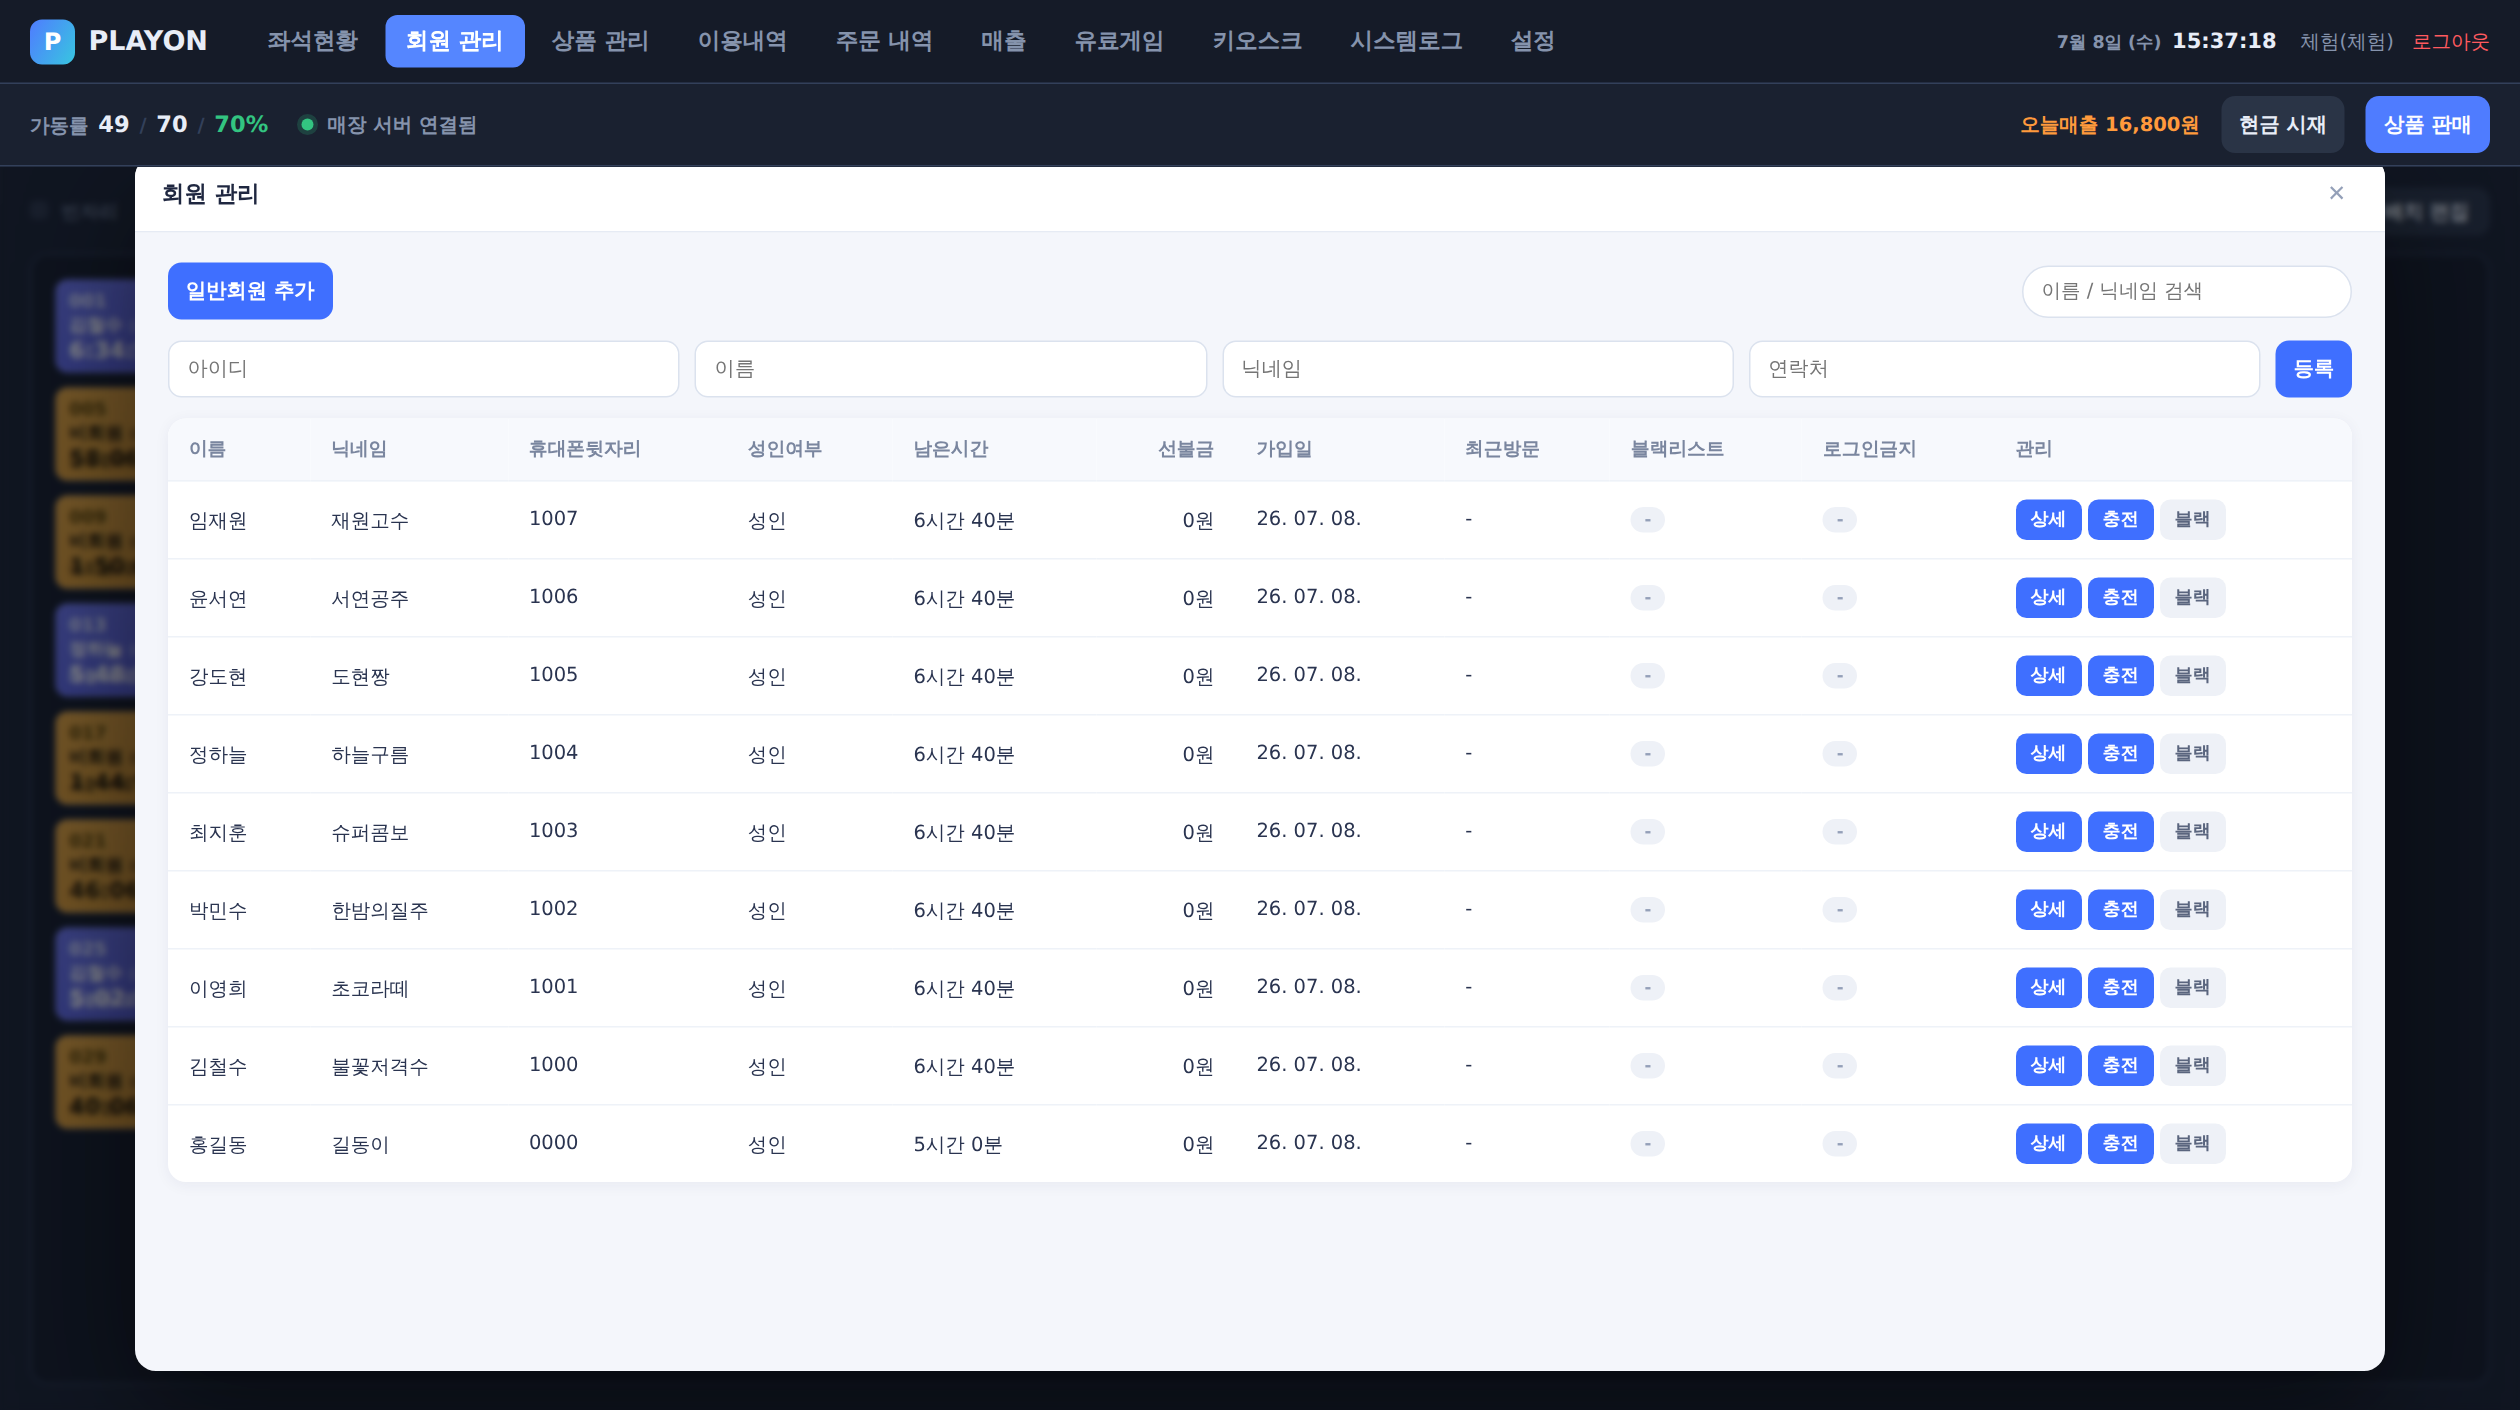
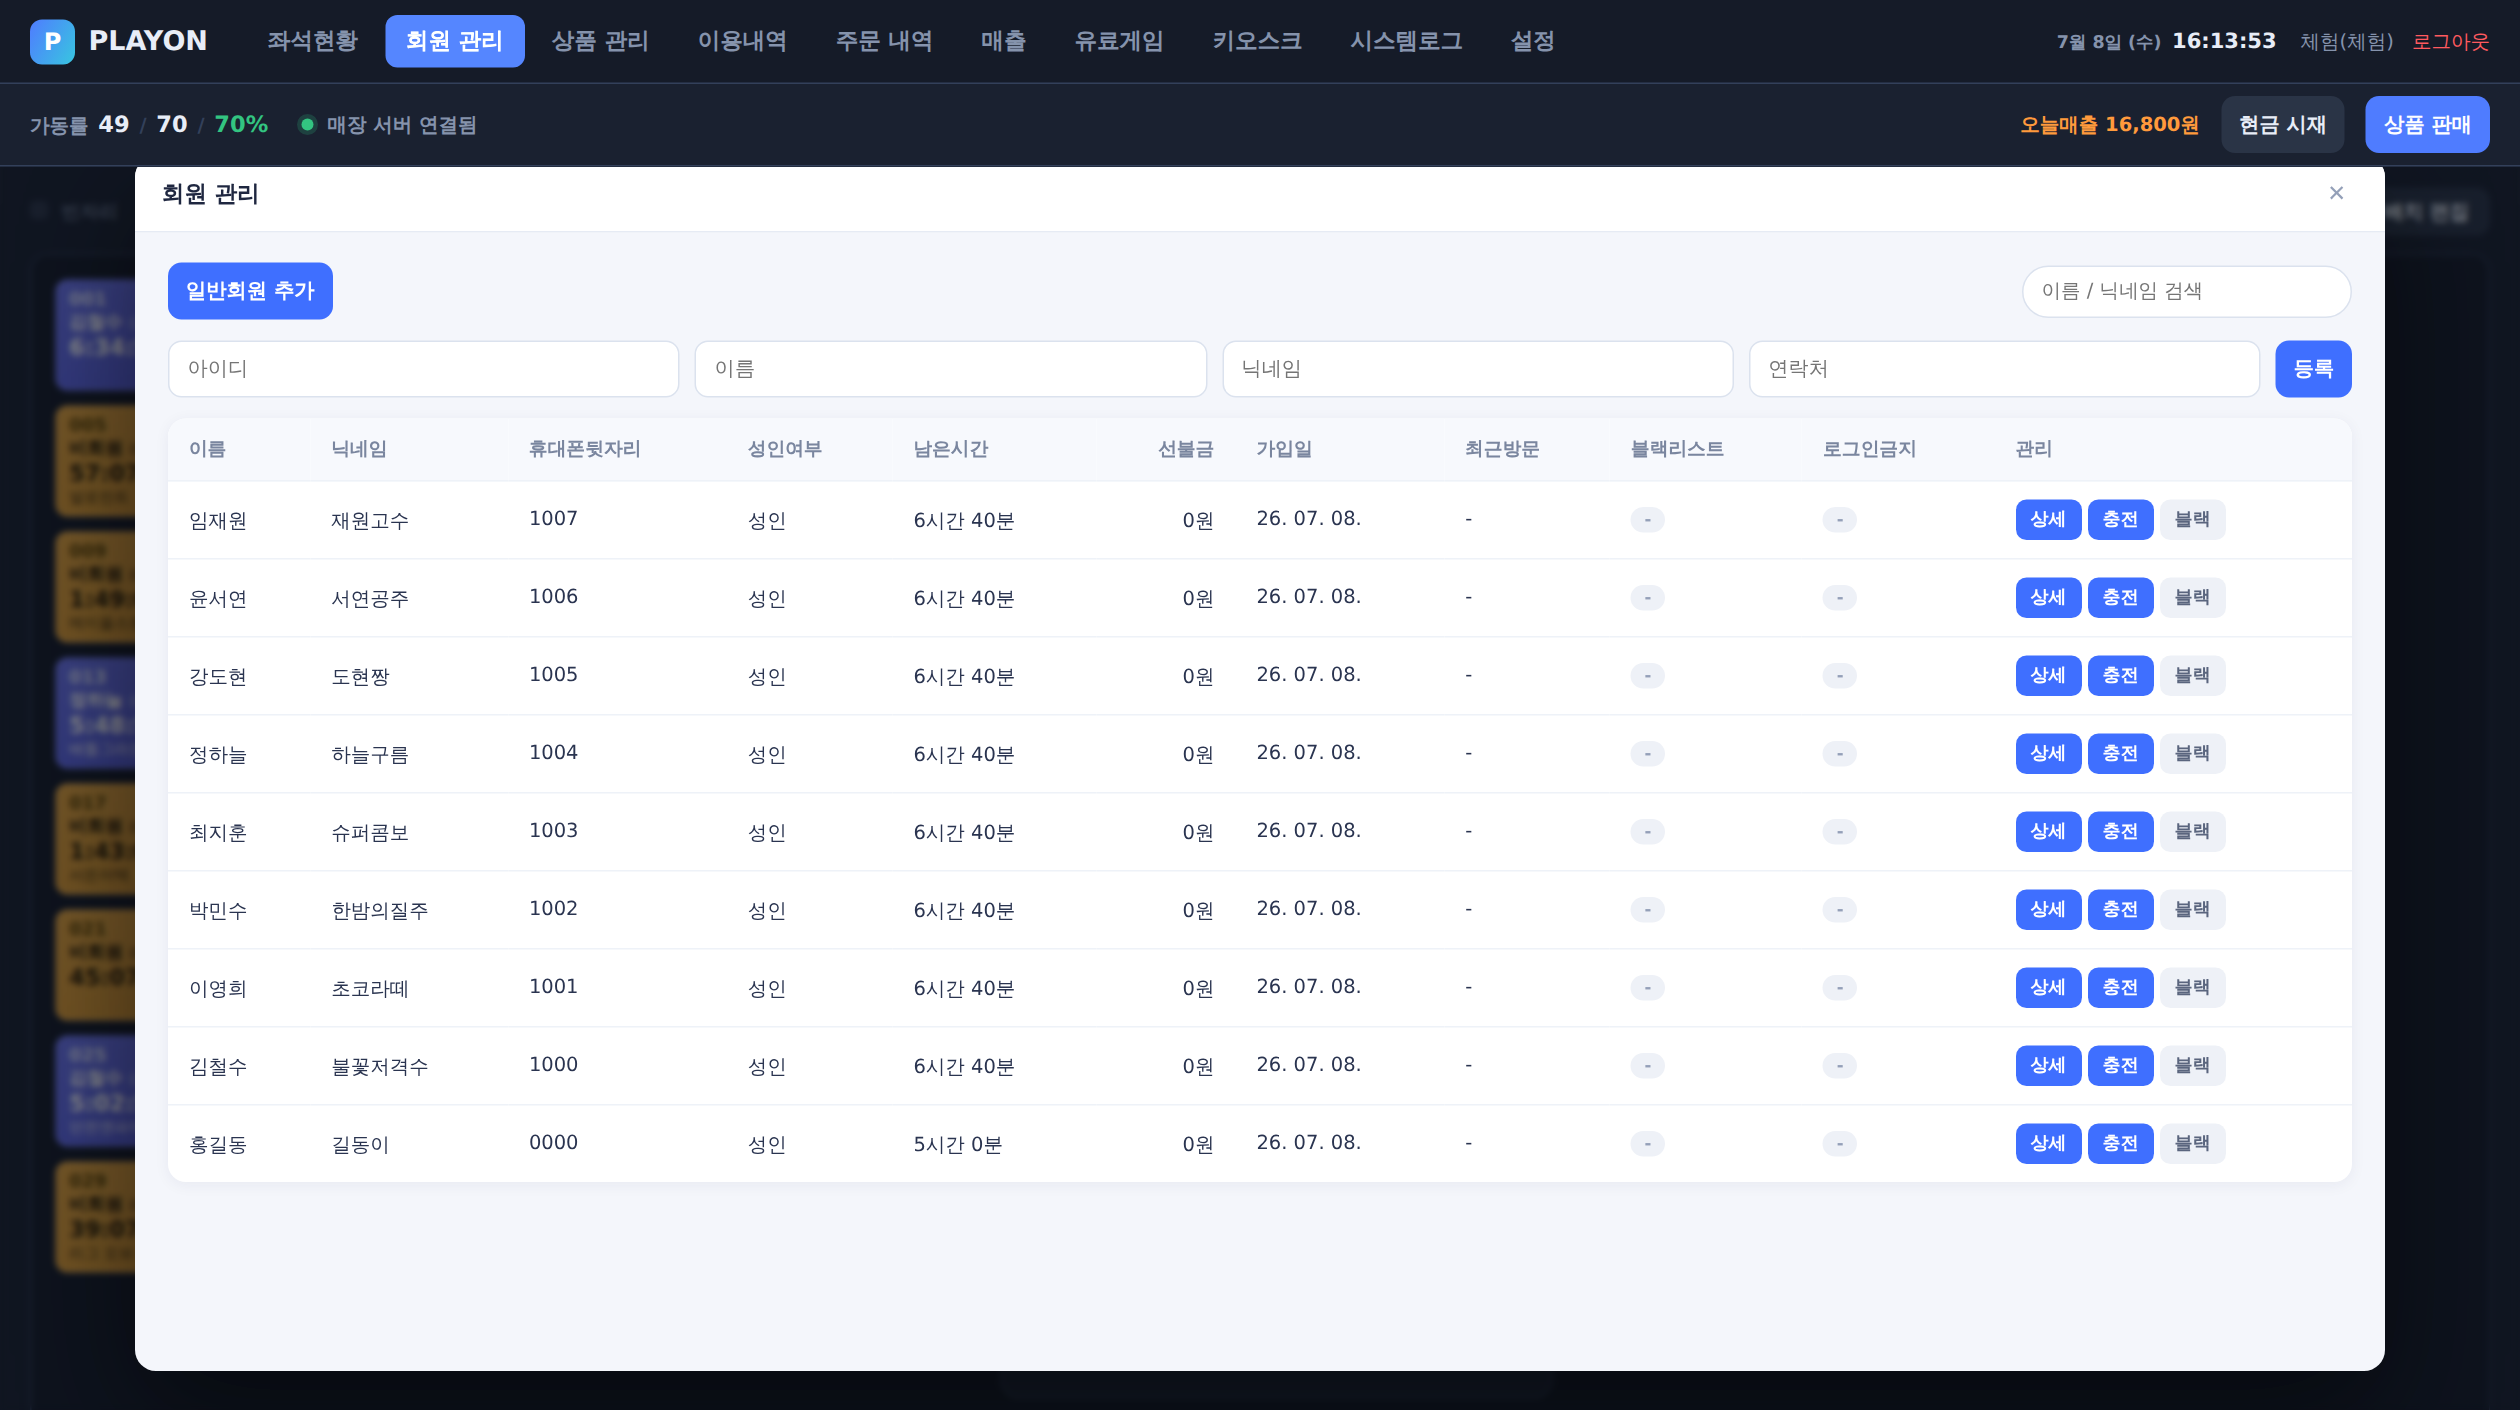
모바일 대응 + 좌석 타일 텍스트 겹침 수정
- 헤더 메뉴를 모바일에서 가로 스크롤 처리(세로로 접히던 문제 해결)
- 상태바/툴바 줄바꿈, 팝업·모달 모바일 폭 맞춤, 넓은 표 가로 스크롤
- 좌석 타일 높이 62→74px + 줄간격 정리로 시간/게임명 겹침 제거
- 소개자료 스크린샷을 개선된 타일로 재생성

Claude-Session: https://claude.ai/code/session_01Qo4DpEGkJbJxxxdiV6G5ut

Changed region(s): [[0.0, 0.2496, 0.0619, 0.905], [0.8667, 0.0, 0.8976, 0.0312]]

diff --git a/public/style.css b/public/style.css
@@ -61,19 +61,19 @@ main { padding: 14px 20px 40px; }
 .seatmap { position: relative; }
 
 .seat {
-  position: absolute; width: 116px; height: 62px; border-radius: 8px;
+  position: absolute; width: 116px; height: 74px; border-radius: 8px;
   background: var(--empty); border: 1px solid var(--line); cursor: pointer;
-  padding: 6px 8px; overflow: hidden; transition: transform .1s, box-shadow .1s;
+  padding: 6px 8px 5px; overflow: hidden; transition: transform .1s, box-shadow .1s;
 }
 .seat:hover { transform: scale(1.04); box-shadow: 0 6px 18px rgba(0,0,0,.4); z-index: 5; }
-.seat .sn { font-size: 12px; font-weight: 800; color: var(--muted); }
+.seat .sn { font-size: 12px; font-weight: 800; color: var(--muted); line-height: 1.1; }
 .seat .icons { position: absolute; top: 6px; right: 7px; display: flex; gap: 3px; }
 .seat .icons i { width: 11px; height: 11px; border-radius: 2px; display: inline-block; }
 .seat .x { position: absolute; inset: 0; display: grid; place-items: center; color: #56617a; font-size: 20px; font-weight: 800; }
-.seat .u { font-size: 12px; font-weight: 700; white-space: nowrap; overflow: hidden; text-overflow: ellipsis; margin-top: 1px; }
+.seat .u { font-size: 12px; font-weight: 700; white-space: nowrap; overflow: hidden; text-overflow: ellipsis; margin-top: 2px; line-height: 1.15; }
 .seat .u small { opacity: .7; font-weight: 600; }
-.seat .t { font-size: 15px; font-weight: 800; font-variant-numeric: tabular-nums; line-height: 1.1; }
-.seat .g { position: absolute; bottom: 5px; left: 8px; right: 8px; font-size: 10px; white-space: nowrap; overflow: hidden; text-overflow: ellipsis; opacity: .8; }
+.seat .t { font-size: 15px; font-weight: 800; font-variant-numeric: tabular-nums; line-height: 1.15; margin-top: 1px; }
+.seat .g { position: absolute; bottom: 5px; left: 8px; right: 8px; font-size: 10px; white-space: nowrap; overflow: hidden; text-overflow: ellipsis; opacity: .85; }
 
 .seat.member { background: linear-gradient(160deg, var(--member), var(--member-2)); border-color: #7e86ff; color: #fff; }
 .seat.member .sn, .seat.member .u small { color: #dfe2ff; }
@@ -200,3 +200,49 @@ button.danger { background: var(--warn); }
 .btn-grid { display: grid; grid-template-columns: 1fr 1fr; gap: 9px; }
 .btn-grid button { padding: 13px; font-size: 14px; }
 button.gray2 { background: var(--panel2); color: var(--ink); }
+
+/* ===== 모바일 대응 ===== */
+@media (max-width: 860px) {
+  .bar-top { flex-wrap: wrap; gap: 8px 12px; padding: 8px 12px; }
+  .brand { font-size: 16px; }
+  .right { margin-left: auto; gap: 8px; }
+  .clock { font-size: 12px; }
+  .clock small { margin-right: 4px; }
+  .whoami { font-size: 12px; }
+  /* 메뉴: 세로로 접히지 않게 가로 스크롤 */
+  .menu { order: 3; width: 100%; flex-wrap: nowrap; gap: 2px; overflow-x: auto; -webkit-overflow-scrolling: touch; padding-bottom: 2px; scrollbar-width: none; }
+  .menu::-webkit-scrollbar { display: none; }
+  .menu .m { flex: 0 0 auto; white-space: nowrap; font-size: 13px; padding: 7px 11px; }
+
+  .bar-status { flex-wrap: wrap; gap: 8px 14px; padding: 8px 12px; font-size: 12.5px; }
+  .toolbar { margin-left: 0; width: 100%; justify-content: space-between; gap: 8px; }
+  .toolbar button { padding: 8px 12px; }
+
+  main { padding: 10px 10px 30px; }
+  .legend { flex-wrap: wrap; gap: 7px 12px; font-size: 12px; }
+  .edit-btn { margin-left: auto; }
+  .seatmap-wrap { padding: 12px; -webkit-overflow-scrolling: touch; }
+
+  /* 팝업: 화면 꽉 채우기 */
+  .wc-popup { padding: 64px 8px 8px; }
+  .wc-window { width: 100%; height: calc(100vh - 74px); border-radius: 12px; }
+  .wc-body { padding: 14px; }
+  .wc-toolbar { gap: 8px; }
+  .wc-search { min-width: 0; flex: 1; }
+  .cards { grid-template-columns: repeat(2, 1fr); }
+  .kiosk-cards, .prod-grid { grid-template-columns: repeat(2, 1fr); }
+
+  /* 모달: 폭 맞춤 */
+  .modal-box { width: calc(100vw - 32px); max-width: 380px; }
+  /* 넓은 표는 가로 스크롤 */
+  .wc-body .panel, .wc-body .table-scroll { overflow-x: auto; -webkit-overflow-scrolling: touch; }
+  .wc-body > .psec > #membersTable, .wc-body > .psec > #historyTable,
+  .wc-body > .psec > #ordersTable, .wc-body > .psec > #logsTable,
+  .wc-body > .psec > #productsTable { overflow-x: auto; -webkit-overflow-scrolling: touch; }
+  .wc-body .tbl { min-width: 460px; }
+}
+@media (max-width: 520px) {
+  .cards { grid-template-columns: 1fr 1fr; }
+  .card .cv { font-size: 18px; }
+  .chart { padding: 16px 8px 12px; height: 160px; }
+}

diff --git a/public/app.js b/public/app.js
@@ -97,7 +97,7 @@ function tickClock() {
 setInterval(tickClock, 1000); tickClock();
 
 // 좌석 배치도 렌더링 (pos_x/pos_y 좌표로 절대 배치)
-const TILE_W = 116, TILE_H = 62, GAP_X = 10, GAP_Y = 10;
+const TILE_W = 116, TILE_H = 74, GAP_X = 10, GAP_Y = 10;
 const sn3 = (n) => String(n).padStart(3, '0');
 
 function renderSeats() {
